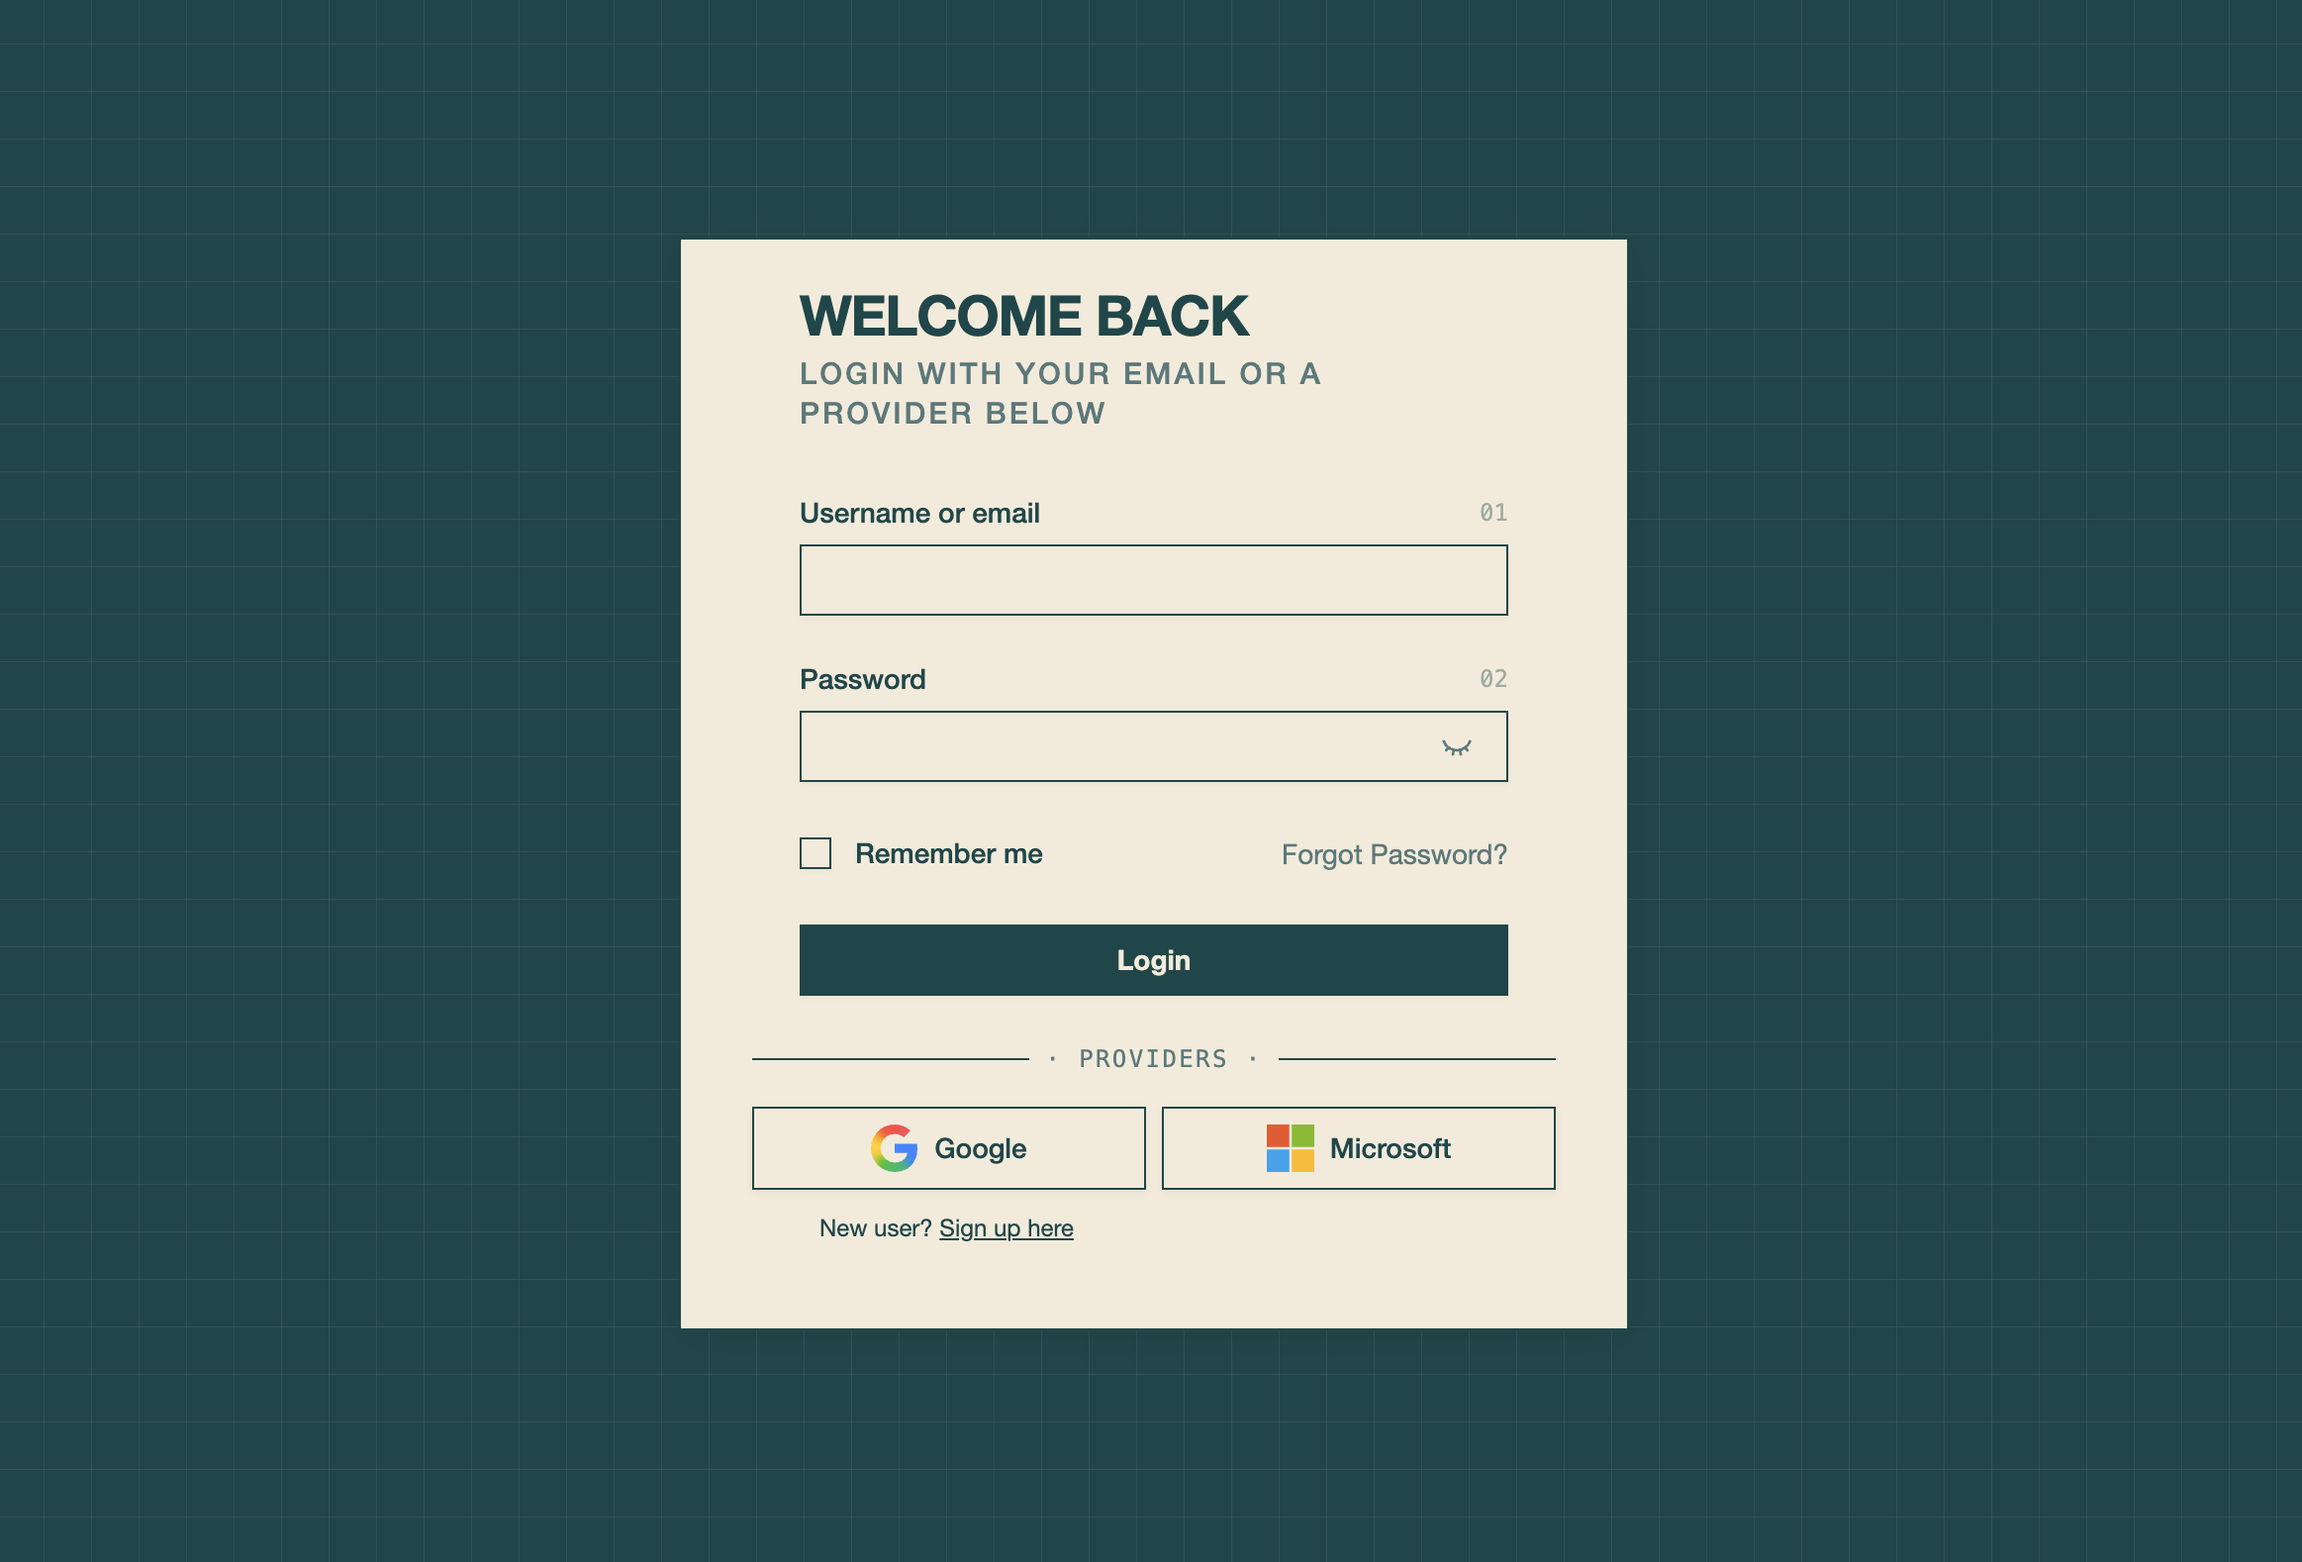
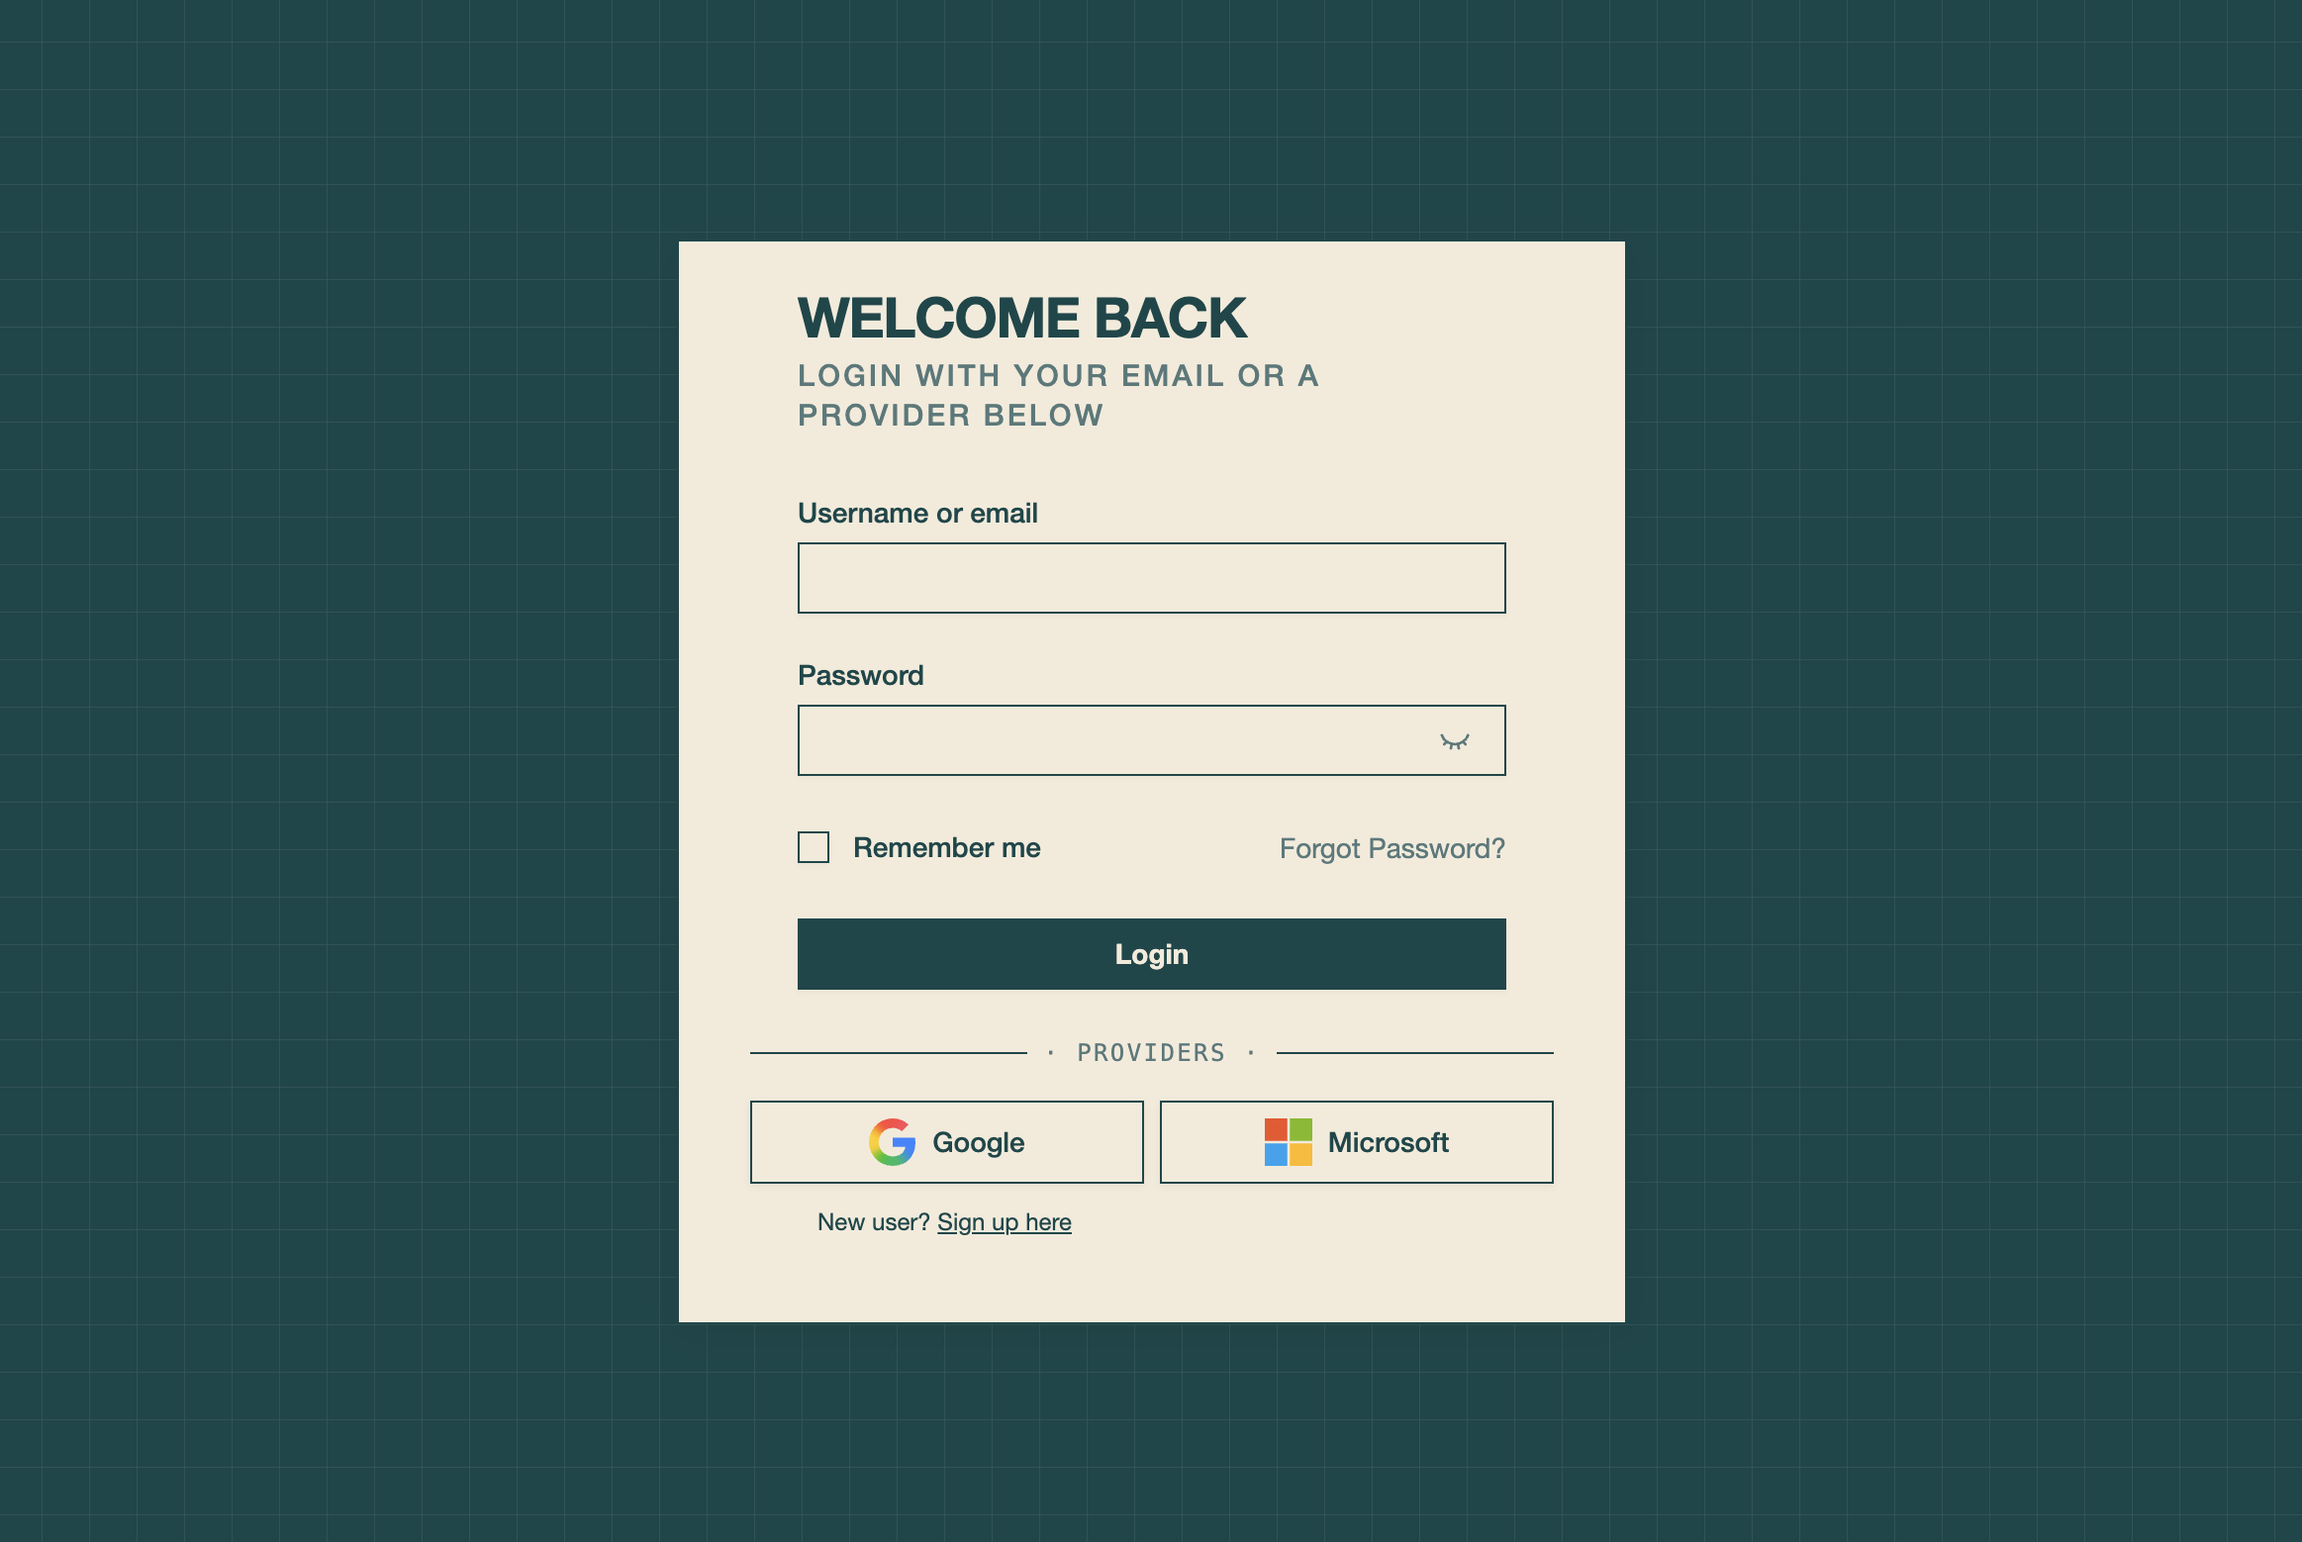
1.5.6 — remove field index labels, update login screenshot
Drop the "01"/"02" field identifiers from the login form and refresh
github_assets/subcloakify_1.png to match.

diff --git a/src/login/pages/Login.tsx b/src/login/pages/Login.tsx
@@ -112,16 +112,13 @@ export default function Login(props: PageProps<Extract<KcContext, { pageId: "log
                             >
                                 {!usernameHidden && (
                                     <div className="space-y-2">
-                                        <div className="flex items-center justify-between">
-                                            <Label htmlFor="username">
-                                                {!realm.loginWithEmailAllowed
-                                                    ? msg("username")
-                                                    : !realm.registrationEmailAsUsername
-                                                      ? msg("usernameOrEmail")
-                                                      : msg("email")}
-                                            </Label>
-                                            <span className="font-mono text-xs opacity-40">01</span>
-                                        </div>
+                                        <Label htmlFor="username">
+                                            {!realm.loginWithEmailAllowed
+                                                ? msg("username")
+                                                : !realm.registrationEmailAsUsername
+                                                  ? msg("usernameOrEmail")
+                                                  : msg("email")}
+                                        </Label>
                                         <Input
                                             tabIndex={2}
                                             id="username"
@@ -146,10 +143,7 @@ export default function Login(props: PageProps<Extract<KcContext, { pageId: "log
                                 )}
 
                                 <div className="space-y-2">
-                                    <div className="flex items-center justify-between">
-                                        <Label htmlFor="password">{msg("password")}</Label>
-                                        <span className="font-mono text-xs opacity-40">02</span>
-                                    </div>
+                                    <Label htmlFor="password">{msg("password")}</Label>
                                     <PasswordWrapper kcClsx={kcClsx} i18n={i18n} passwordInputId="password">
                                         <Input
                                             tabIndex={3}
